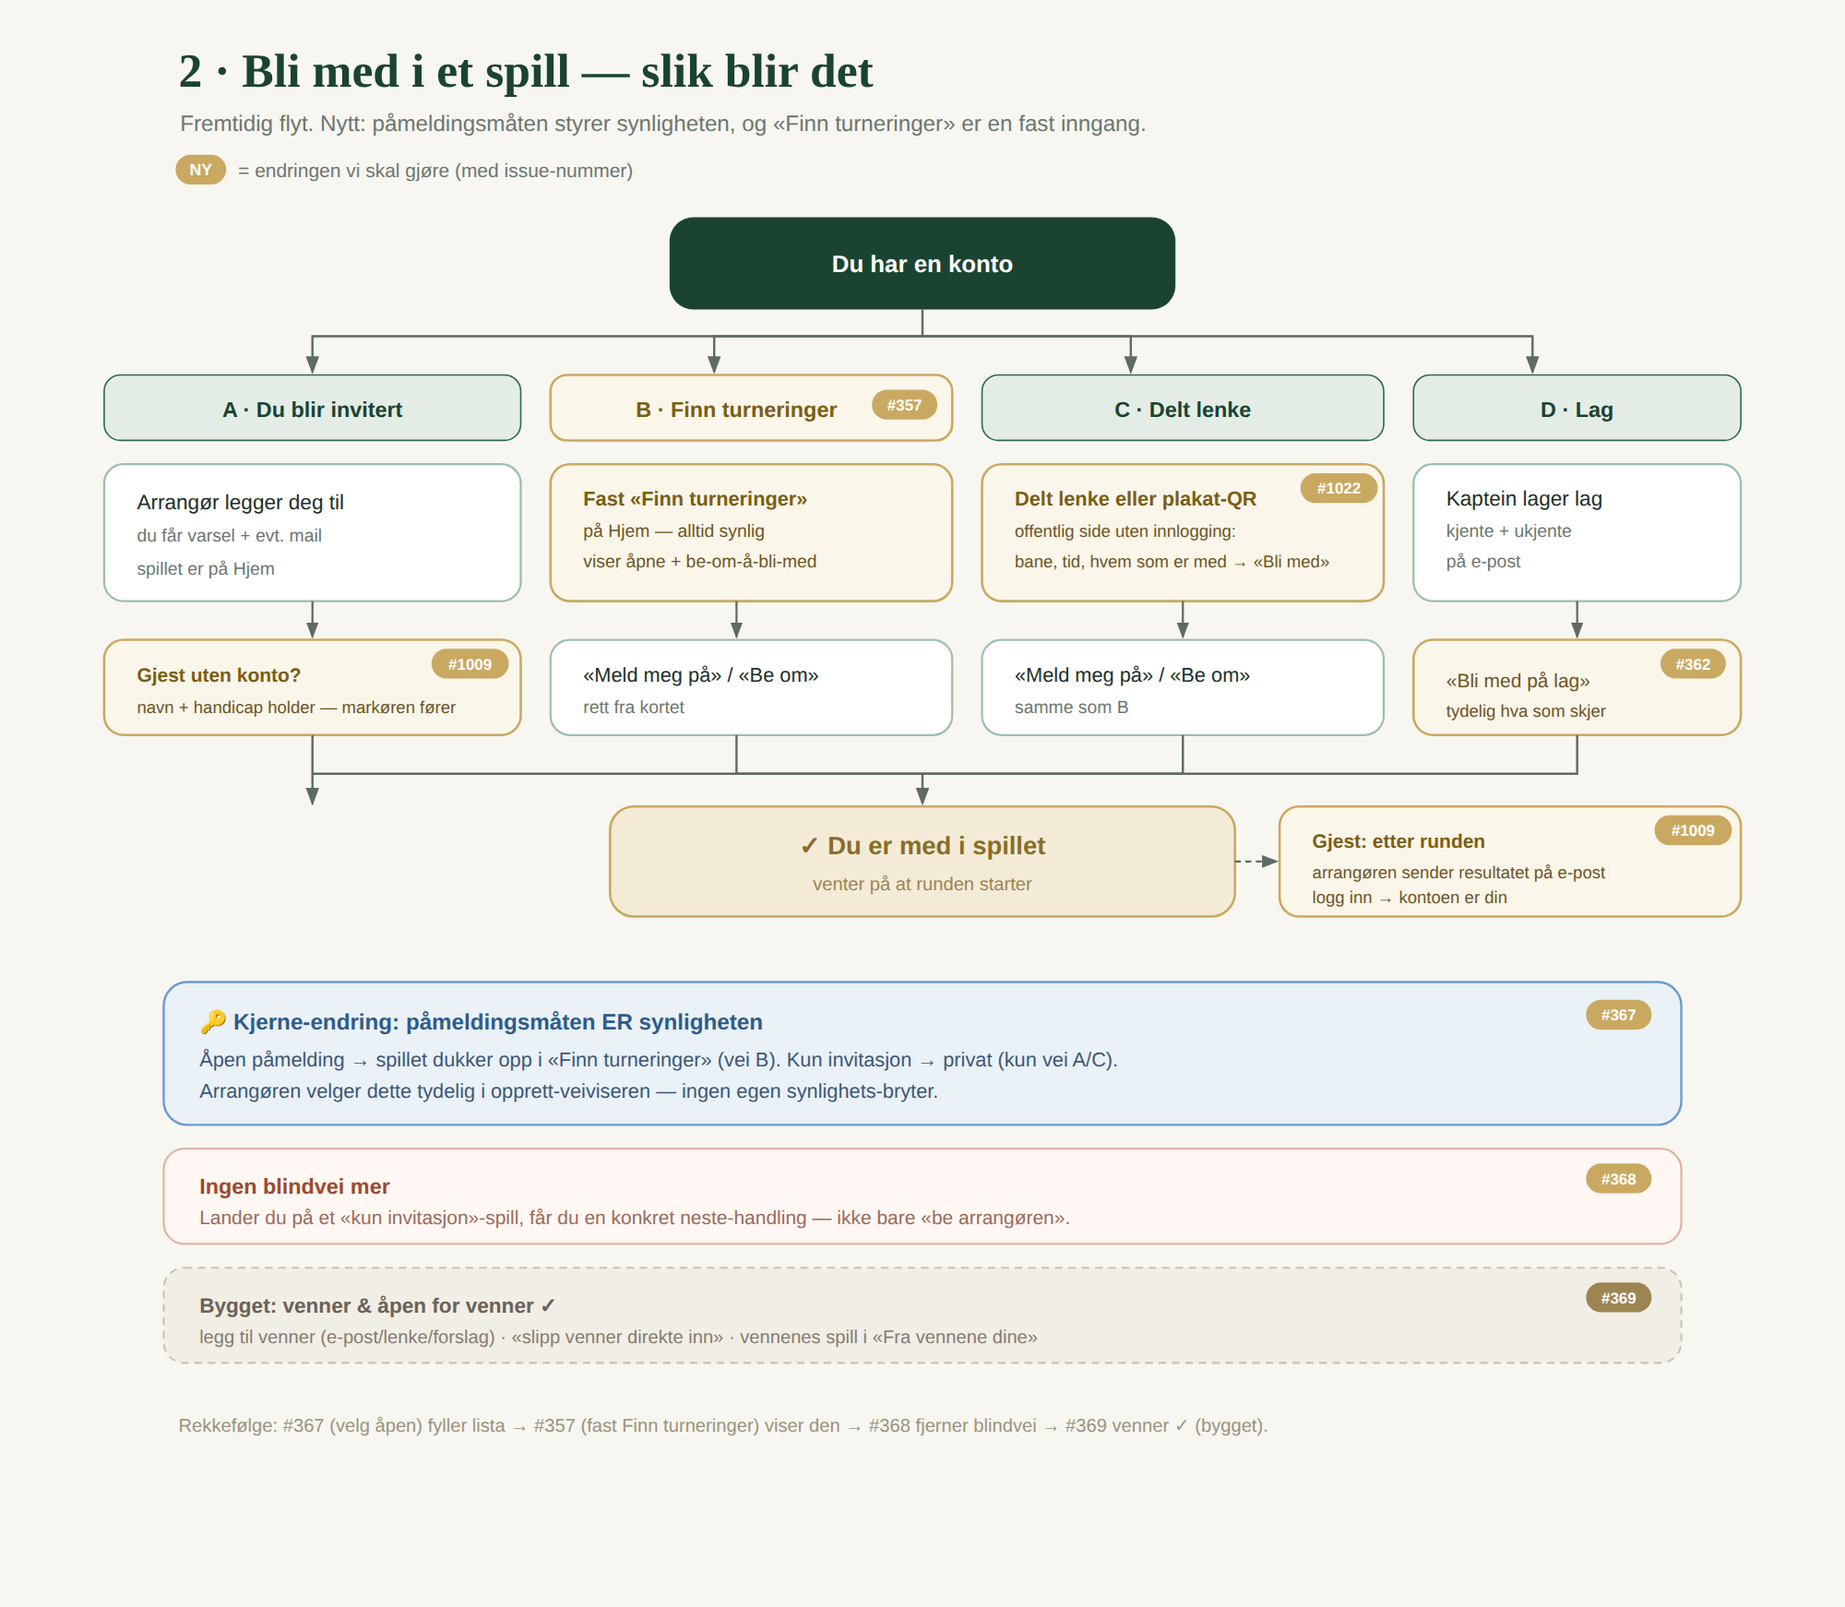
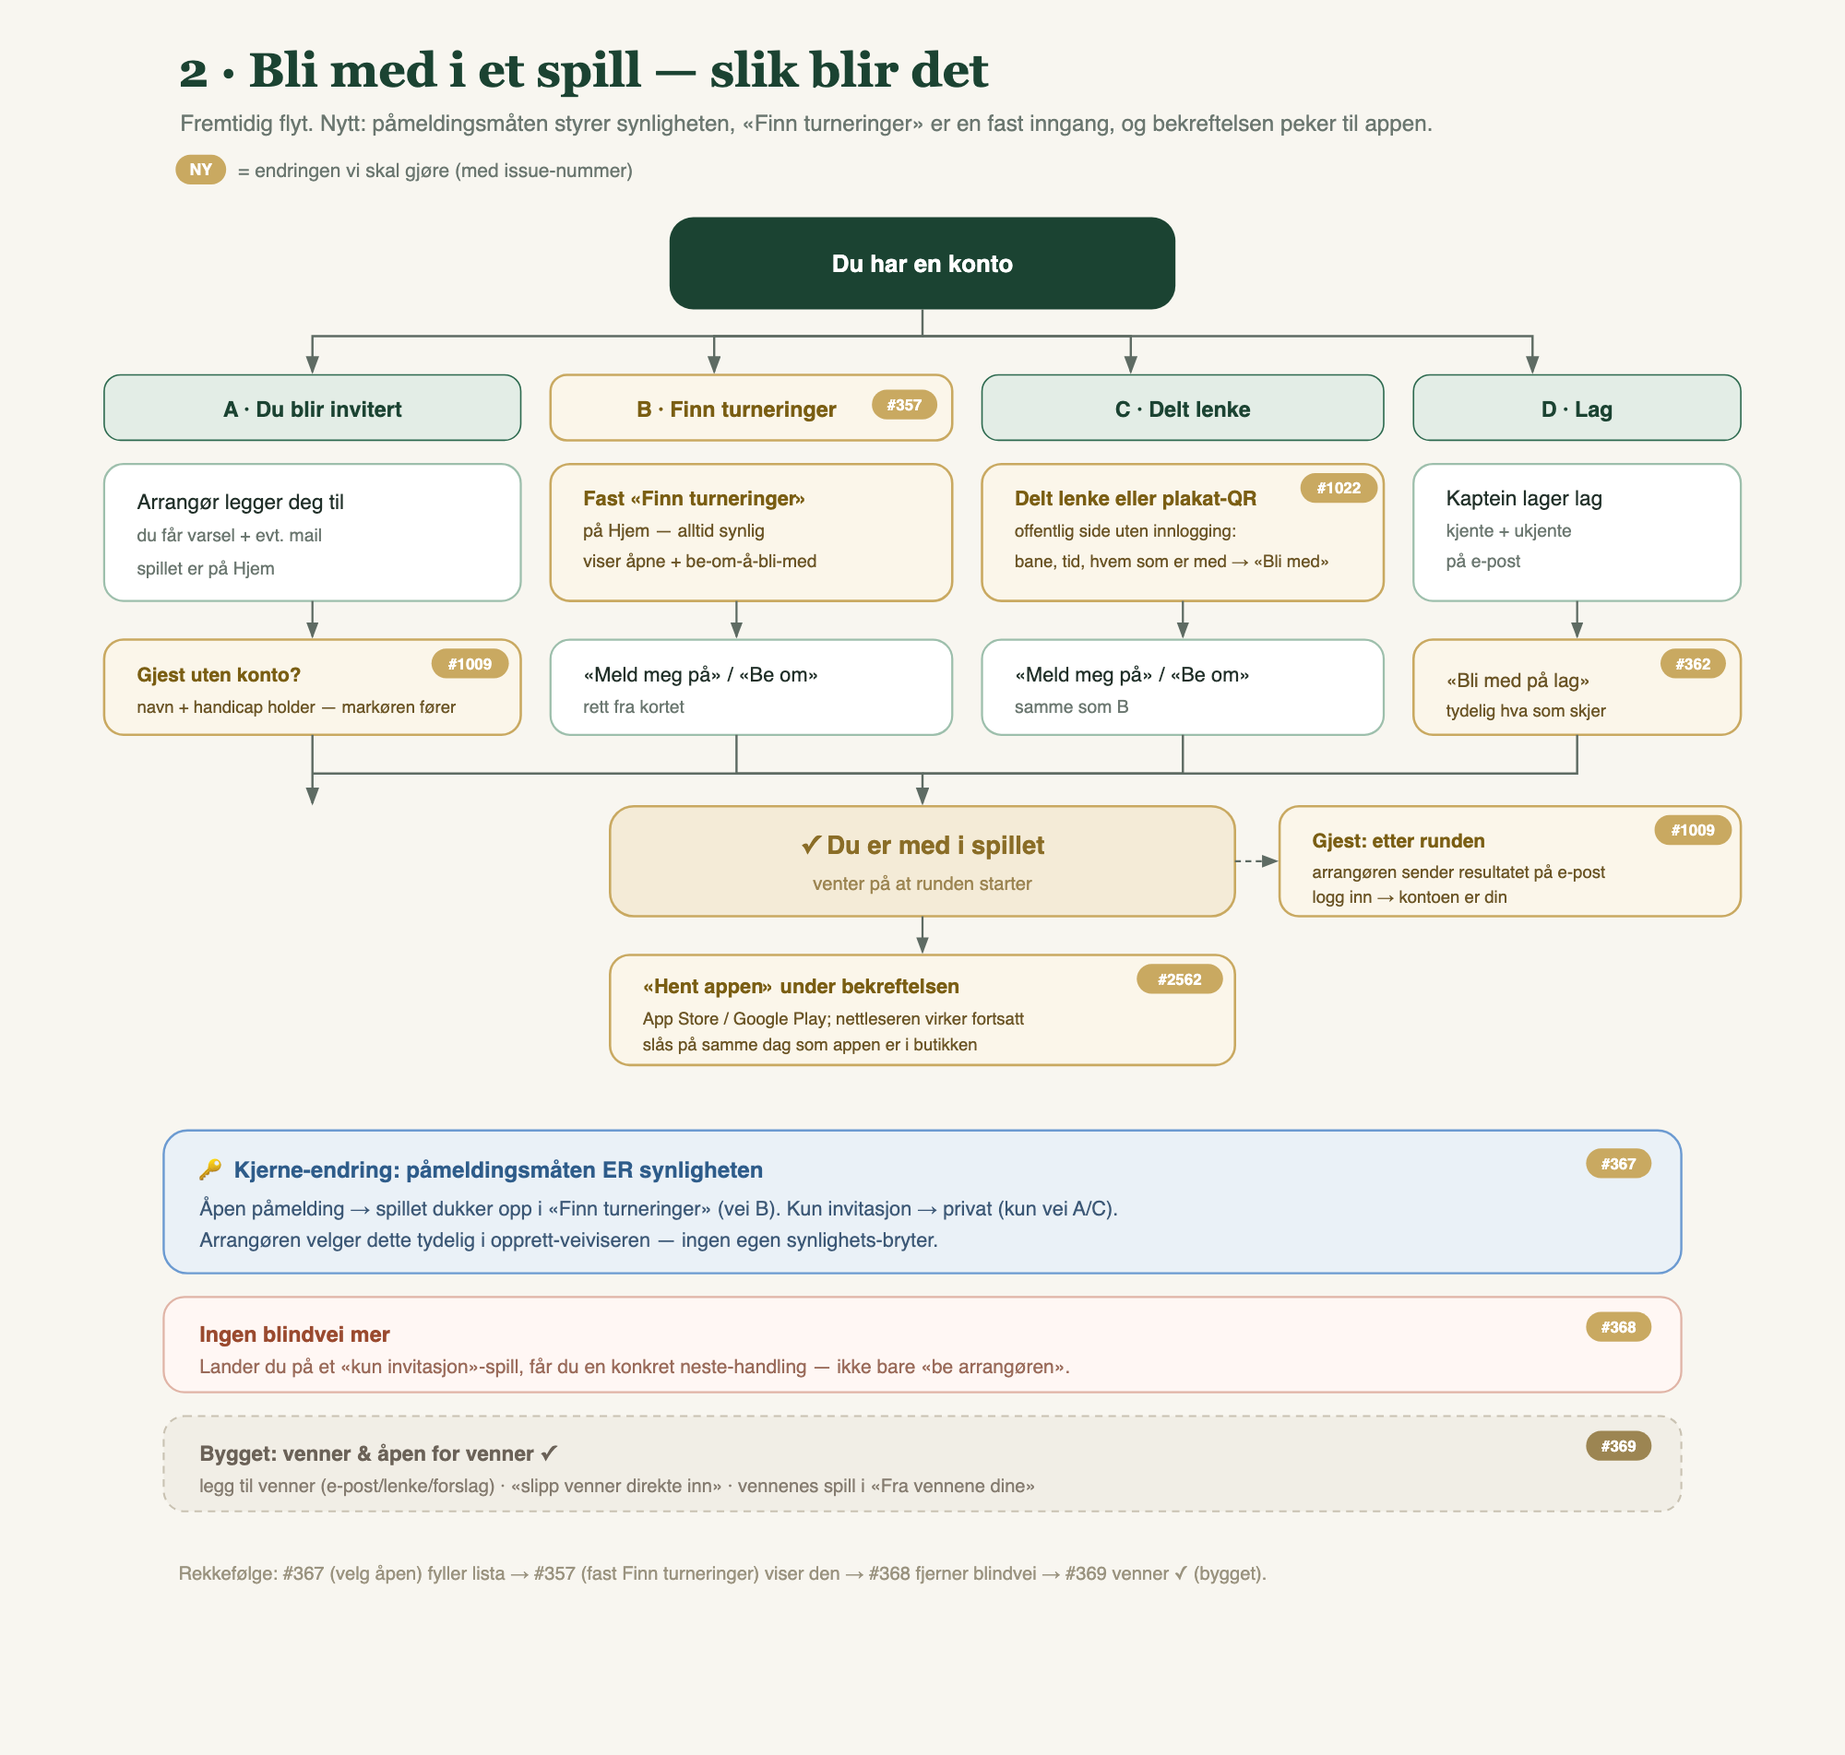
docs: launch day on the website — the switch in the runbooks and the flows
app-store-release.md gets «Nettsiden samme dag»: what off, ios and on
do, and the steps on release day (open the store link first, set the
variable in Vercel Production, redeploy, check the four places, back
with off). play-store-release.md has the on step. staging-testing.md
says to export NEXT_PUBLIC_APP_LAUNCH before a prod-mode build.

Flow 2 (future) gets «Hent appen» under the confirmation as NY #2562,
PNG regenerated from the SVG (only that PNG; the renderer's noise in
the others is not committed). user-flows.md: one line each for the
landing, invitation, sign-up, game home, spectate and the home banner.

Refs #2562

Changed region(s): [[0.062, 0.124, 0.961, 0.899], [0.093, 0.031, 0.775, 0.124], [0.837, 0.62, 0.899, 0.682]]

diff --git a/docs/user-flows.md b/docs/user-flows.md
@@ -23,6 +23,14 @@ Uinnlogget → `/login?next=<path>`. Innlogget uten fullført profil → `/compl
 får sitt personlige Hjem uendret (proxyen beholder verified-user-headeren, så bunn-nav-en
 består).
 
+**Lanseringsdagen (#2562):** bryteren `NEXT_PUBLIC_APP_LAUNCH` (`off` | `ios` | `on`, regelen i
+`lib/app/appLaunch.ts`) slås på samme dag som appen er i butikken. Med `ios` eller `on` byttes
+tekstene som sier at det ikke finnes noen app: tillitslinja, steg 2, FAQ-en (og JSON-LD-en) og
+`<title>` på forsiden, hintet ved innlogging fra en invitasjon, guiden og «Hvorfor Tørny». Med
+`on` heter demoknappene «Hent appen» på samme plass (butikken på telefon, `/demo` på PC), og
+`/demo` viser en side som peker til appen (`DemoAppPointer`) i stedet for demorunden. Med `ios`
+står demoen, og en iPhone får App Store-kortet over den.
+
 ```mermaid
 flowchart TD
   Req[Forespørsel] --> P{proxy.ts:<br/>innlogget?}
@@ -44,7 +52,7 @@ flowchart TD
 ```
 
 **Persistente nav-elementer** (verifisert i `app/[locale]/layout.tsx` + sidene):
-`BrandMark` (logo, ikke klikkbar) · `InstallBanner` (PWA) · `ProductUpdateBanner` ·
+`BrandMark` (logo, ikke klikkbar) · `InstallBanner` (PWA; med appen ute blir den «Hent Tørny-appen» der appen er, #2562) · `ProductUpdateBanner` ·
 `TopBar` (tilbake-pil + tittel, på indre sider) · `AppVersionFooter` (versjon + Personvern).
 
 **Vedvarende bunn-nav** (#355, #392): fire faste faner — Hjem, Innboks, Klubbhuset, Profil —
@@ -134,6 +142,8 @@ flowchart LR
 
 **To mailer per invitasjon:** Resend-notifikasjon (`lib/mail/inviteNotification.ts`) når noen inviterer, så kode-mail når invitéen ber om kode på `/login`.
 
+**Med appen ute (#2562, `NEXT_PUBLIC_APP_LAUNCH`):** hintet under invitasjonsskjemaet sier ikke lenger «Ingen app å laste ned», og invitéen lander på spill-hjem, der «Hent appen» (`GetTheApp`) står under nedtellingen.
+
 ### P2 — Selv-påmelding (offentlig lenke)
 
 `/signup/[shortId]` (offentlig). Tre moduser styrt av `games.registration_mode`:
@@ -148,6 +158,8 @@ flowchart TD
 ```
 
 Lag-flyt (`/signup/[shortId]/team`): kaptein navngir lag + fyller medspiller-slots (kjent bruker oppslag eller ukjent e-post). Kjente → in-app-varsel + auto-`game_players`. Ukjente → Resend-invitasjon (`lib/mail/teamInvitation.ts`) → OTP → profil → «Bli med på lag».
+
+**Med appen ute (#2562, `NEXT_PUBLIC_APP_LAUNCH`):** «Hent appen» (`GetTheApp`) står under kvitteringen: forespørselen ved manuell godkjenning, «Du er påmeldt» og de to bannerne for ventende forespørsel. Åpen påmelding går rett til spill-hjem, der kortet står under nedtellingen.
 
 ### P3 — Spille en runde
 
@@ -167,7 +179,7 @@ flowchart LR
 
 | Steg | Rute / fil | Teknisk |
 |---|---|---|
-| Spill-hjem | `app/[locale]/games/[id]/(home)/page.tsx` | Auto-start: `scheduled→active` når tee-off passert (`startScheduledGame` + `after(revalidateTag)`). CTA: «Start runden» → «Fortsett» → «Gjennomgå og lever». Er ditt eget kort levert og du har ført kort i flighten som ikke er levert, viser siden «Lever kortene du har ført (N)» til lever-siden (#2200). Står auto-starten fast, sier siden hvorfor i stedet for «Starter snart», og en cup-kamp som aldri blir spilt, sier det med en gang (`lib/games/startBlockReason.ts`, #2204). Cachet `getGameWithPlayers` (tag `game-${id}`). |
+| Spill-hjem | `app/[locale]/games/[id]/(home)/page.tsx` | Auto-start: `scheduled→active` når tee-off passert (`startScheduledGame` + `after(revalidateTag)`). CTA: «Start runden» → «Fortsett» → «Gjennomgå og lever». Er ditt eget kort levert og du har ført kort i flighten som ikke er levert, viser siden «Lever kortene du har ført (N)» til lever-siden (#2200). Står auto-starten fast, sier siden hvorfor i stedet for «Starter snart», og en cup-kamp som aldri blir spilt, sier det med en gang (`lib/games/startBlockReason.ts`, #2204). Med appen ute står «Hent appen» mellom nedtellingen og flightvelgeren (#2562). Cachet `getGameWithPlayers` (tag `game-${id}`). |
 | Taste slag | `app/[locale]/games/[id]/holes/[holeNumber]/page.tsx` + `HoleClient.tsx` | Alle formater unntatt Bingo Bango Bongo taster på scoreskinna nederst (`ScoreRail` + `useScoreRail`, #2251): ett trykk setter scoren og går videre til neste spiller uten score. Appen har den samme skinna (`native/app/src/screens/Hole.tsx`, #2252). `writeScore()` → Dexie → sync-kø → `upsert_score_if_newer` RPC. Sync-worker drainer på online/focus/30s + service worker bakgrunns-sync. Realtime-merge per flight. RLS: eget + samme-flight under `active`. |
 | Gjennomgå | `app/[locale]/games/[id]/scorecard/page.tsx` | `resolveScorecardLayout` (solo 1 kolonne / lag fler-kolonne). Netto skjult under `reveal`-aktiv. I appen (`native/app/src/screens/Scorecard.tsx`) er kortet klassisk: UT og INN med POENG eller NETTO (`lib/scorecard/scorecardGrid.ts`), og etter levering et stempel med tidspunkt, hvem som signerte og hvem som godkjente (`lib/scorecard/scorecardStamp.ts`, #2262). |
 | Lever | `app/[locale]/games/[id]/submit/page.tsx` + `actions.ts` → `submitScorecard` | Setter `game_players.submitted_at`. Idempotent (`.is('submitted_at', null)`). Lever-siden tilbyr også kortene til dem i flighten du har ført alle hullene for, og gjestekort som er fullt ført, siden en gjest aldri kan logge inn: «Lever 3 kort ✓» leverer dem sammen med ditt eget (skjemafeltet `alsoFor` → `submitScorecardCore`, #2200). Regelen bor i `lib/games/flightDelivery.ts`, lesingen i `lib/games/loadFlightDelivery.ts`, appen sender dem i `alsoFor` til `POST /api/games/[id]/submit-team`, og hvem som leverte, står i `submitted_by_user_id` (0191). Varsler peers og arrangøren (`games.created_by`, ikke admin-ene): `scorecard_submitted` i innboksen og som push, ingen e-post per levering. Arrangøren får det ikke for et kort hen leverte, står på eller skal godkjenne (`deliveryNoticeRecipient`, #2203). Gjør leveringen spillet klart til å avsluttes, får arrangøren én «Alle har levert» (`all_scorecards_delivered`, lenke til `/games/[id]/avslutt`; e-post bare når hen ikke er i appen). Påminnelsen: et kvarter etter siste hull får den som kan levere kortet, ett `deliver_reminder` (sveipen `POST /api/cron/delivery-reminder`, pg_cron fra 0192; regelen i `lib/games/deliveryReminderSweep.ts`). Spillsiden sender den ikke lenger. Når alle hullene er ført, starter appens scorekort med en oppsummering: tallene, dagens beste hull og det som svidde, og hvem i flighten som mangler hull (`native/app/src/lib/roundDone.ts`; reglene i `lib/scorecard/roundSummary.ts`, #2299). Har arrangøren slått på «Hvem sitt utslag», stopper leveringen så lenge noen på laget har færre utslag enn minstekravet: lever-siden viser hvem som mangler, serveren svarer `tee_shots_short`, og triggeren `guard_game_players_tee_shots` nekter den samme leveringen i basen (`team_tee_shots`, 0209, #2580). |
@@ -180,6 +192,8 @@ flowchart LR
 **Tavla (#2253):** live solo stableford (også modifisert) og solo slagspill vises som en tavle: skoggrønt hode, mørk tavle med skilt i fire kolonner (plass, spiller, hull, poeng/netto), pil for plassendring siden forrige hull, fem prikker for de siste hullene og din egen rad merket «DU». Tavla viser topp 5 til du trykker «Vis alle», og du trykker på et skilt for å gi reaksjoner. Stripen «Din runde» nederst viser plassen din og knappen videre («Hull N →» eller «Lever scorekort →»); den vises ikke for arrangør som ikke spiller, trukket spiller eller på spectate/embed. Utregningen bor i `lib/leaderboard/liveBoard.ts`. Nye solo slagspill rangeres etter netto mot par over hullene hver spiller har spilt (`mode_config.ranking = 'net_to_par'`, stemplet ved opprettelse); eldre spill og ligarunder beholder netto slag. Lagstableford, reveal-spill og ferdige spill (pall eller duell) har egen visning.
 
 **Heiagjengen (#2286):** på live-lenka (spectate) er skiltene følg-lenker. Trykk på et navn gir `?folg=<user_id>` og følg-siden (`FollowView`): plass og total, de fem siste hullene, flighten og tavla. Valget huskes per spill på telefonen (`FollowMemory`, nøkkel `torny:folg:<token>`).
+
+**Hent appen på live-lenka (#2562):** med appen ute står en rolig linje med butikkmerkene under tavla, over «Lag din egen turnering». Følg-siden skjuler den sammen med CTA-en, og storskjermen (`/tv`) og innbyggingen (`/embed`) får den ikke.
 
 ### P5 — Profil, historikk & konto
 

diff --git a/docs/staging-testing.md b/docs/staging-testing.md
@@ -11,7 +11,7 @@
 - **Node 22 kreves** (`source ~/.nvm/nvm.sh && nvm use 22`) — appen krasjer på Node 20 (supabase-js krever native WebSocket).
 - `.env.staging.local` (gitignorert) har staging-URL + anon + `SUPABASE_SERVICE_ROLE_KEY` + `E2E_ADMIN_EMAIL`/`E2E_PLAYER_EMAIL`. Din vanlige `.env.local` (prod) røres ikke.
 - Boot via `preview_start("torny-staging")` (launch-config i `.claude/launch.json`); driv med `preview_*`-verktøyene.
-- **Samme innloggingsmodus som prod (#2225):** prod kjører med selvregistrering og Face ID på (`NEXT_PUBLIC_ALLOW_SELF_REGISTRATION=true`, `NEXT_PUBLIC_PASSKEYS=on`). `torny-staging` og Playwright setter dem selv. Bygger du prod-modus for hånd, eksporterer du dem før `npm run build`, fordi `NEXT_PUBLIC_*` bakes inn ved bygg: `export NEXT_PUBLIC_ALLOW_SELF_REGISTRATION=true NEXT_PUBLIC_PASSKEYS=on`.
+- **Samme innloggingsmodus som prod (#2225):** prod kjører med selvregistrering og Face ID på (`NEXT_PUBLIC_ALLOW_SELF_REGISTRATION=true`, `NEXT_PUBLIC_PASSKEYS=on`). `torny-staging` og Playwright setter dem selv. Bygger du prod-modus for hånd, eksporterer du dem før `npm run build`, fordi `NEXT_PUBLIC_*` bakes inn ved bygg: `export NEXT_PUBLIC_ALLOW_SELF_REGISTRATION=true NEXT_PUBLIC_PASSKEYS=on`. Bryteren for lanseringsdagen (#2562) er av i prod til appen er i butikken. Vil du se nettsiden med appen ute, eksporterer du `NEXT_PUBLIC_APP_LAUNCH=ios` eller `on` før `npm run build` (`off` er standard).
 - **Autonom login** (ingen e-post/SMTP): mint kode via service-role REST `POST $NEXT_PUBLIC_SUPABASE_URL/auth/v1/admin/generate_link` → `email_otp` → fyll login-skjemaet (`input[type=email]` → «Send meg kode» → `input[name=token]` → «Logg inn»). Admin = `E2E_ADMIN_EMAIL`, spiller = `E2E_PLAYER_EMAIL`.
 - **Eier-tapptest i native-appen (#1923):** innloggingsskjermen i Tørny Dev har trykk-innlogging for rollebesetningen (Anne Admin, Kari Arrangør, Ola Kompis, Per Putter, Testspiller Tapp — alle `@example.test`). Rigg testspill til eieren med disse. Trenger du en annen bruker: `node scripts/dev-login-users.mjs add --email torny+dev-<slug>@example.test --name "<Navn>" --role spiller --issue <N>` — den står i appen neste gang innloggingsskjermen åpnes, uten nytt bygg. Passord: `DEV_LOGIN_PASSWORD` i `.env.staging.local` = `EXPO_PUBLIC_DEV_LOGIN_PASSWORD` i `native/app/.env.local` (begge gitignorert). Skriptet nekter alt annet enn staging. Detaljer: `docs/native/app-spike.md` «Testbrukere i appen».
 - **Prod-vakt:** en staging-mintet kode validerer kun mot staging — bekreft det (og at data er staging-formet) før du skriver noe.

diff --git a/docs/native/app-store-release.md b/docs/native/app-store-release.md
@@ -248,6 +248,32 @@ beviset leser den, for å sjekke at ingen verdi derfra er med i bundelen.
 5. **Etterkontroll (P7)** — kontrakten §6: installer fra App Store over TestFlight-bygget,
    OTP-innlogging, åpne et ferdig spill, en mail-lenke skal åpne Safari.
 
+## Nettsiden samme dag
+
+Nettsiden har en bryter for lanseringsdagen (#2562): `NEXT_PUBLIC_APP_LAUNCH`, med regelen i
+`lib/app/appLaunch.ts`.
+
+| Verdi | Nettsiden |
+|---|---|
+| `off` (eller usatt) | Som før. |
+| `ios` | Appen er i App Store. Tekstene som sier at det ikke finnes noen app, byttes. «Hent appen» står på spillsiden før start, påmeldingskvitteringen og live-tavla, med App Store-merket. Android-telefoner får ikke kortet. Hjem-banneret blir «Hent Tørny-appen» på iPhone og iPad. Demoknappene står, og `/demo` får App Store-kortet over demoen på iPhone. |
+| `on` | Begge butikkene (se `play-store-release.md`). |
+
+`NEXT_PUBLIC_*` bakes inn ved bygg, så bryteren slås på med en ny deploy. Samme dag som eieren
+trykker «Release This Version»:
+
+1. Åpne `https://apps.apple.com/no/app/id6806675951` (står i `lib/app/storeLinks.ts`) i en
+   nettleser. Viser den ikke Tørny, venter du. Lenka kan ikke prøves før oppføringen er
+   offentlig.
+2. Eieren setter `NEXT_PUBLIC_APP_LAUNCH` til `ios` i Vercel → Settings → Environment
+   Variables, bare for Production (instruksen etter malen i `docs/collaboration.md`).
+3. Ny deploy av prod: Deployments → siste prod-deploy → Redeploy.
+4. Sjekk i prod, på iPhone og på PC: forsiden (tillitslinja, FAQ-en, og `<title>` og FAQ-en
+   i JSON-LD-en i kildekoden), innloggingen fra en invitasjon (hintet under e-postfeltet),
+   spillsiden før start og påmeldingskvitteringen (kortet), live-tavla (linja under tavla) og
+   `/demo` (App Store-kortet over demoen på iPhone). App Store-merket åpner oppføringen.
+5. Tilbake: sett `off` og deploy på nytt. Bryteren endrer bare tekst og lenker, ingen data.
+
 ## Rollback
 
 | Fase | Hva kan gå galt | Tilbake slik |

diff --git a/docs/native/play-store-release.md b/docs/native/play-store-release.md
@@ -122,6 +122,22 @@ telefonen, og den signeres med debug-nøkkelen som før. Den får også
 `android.builder.sdkDownload=false`, så `expo run:android` stopper og navngir en SDK-pakke som
 mangler i stedet for å laste den ned.
 
+## Nettsiden samme dag
+
+Bryteren for lanseringsdagen (#2562) står i `app-store-release.md` §«Nettsiden samme dag». Med
+`on` er appen i begge butikkene. Da viser «Hent appen» Google Play-merket på Android og begge
+merkene på PC. Demoknappene heter «Hent appen» og går rett til butikken på telefon (til
+`/demo` på PC), og `/demo` peker til appen i stedet for å kjøre demorunden.
+
+1. Åpne `https://play.google.com/store/apps/details?id=no.tornygolf.app` (står i
+   `lib/app/storeLinks.ts`) i en nettleser. Viser den ikke Tørny, venter du.
+2. Eieren setter `NEXT_PUBLIC_APP_LAUNCH` til `on` i Vercel (Production), og prod deployes på
+   nytt.
+3. Sjekk i prod, på Android og på PC: de samme stedene som for `ios`, og i tillegg
+   demoknappen på forsiden (går til Google Play på Android, til `/demo` på PC) og `/demo`
+   (begge merkene, ingen demorunde).
+4. Tilbake: sett `ios` igjen (eller `off`) og deploy på nytt.
+
 ## Feilsøking
 
 - **«SDK-pakker mangler»:** kjør `sdkmanager`-kommandoen skriptet skriver ut. Nye versjoner
